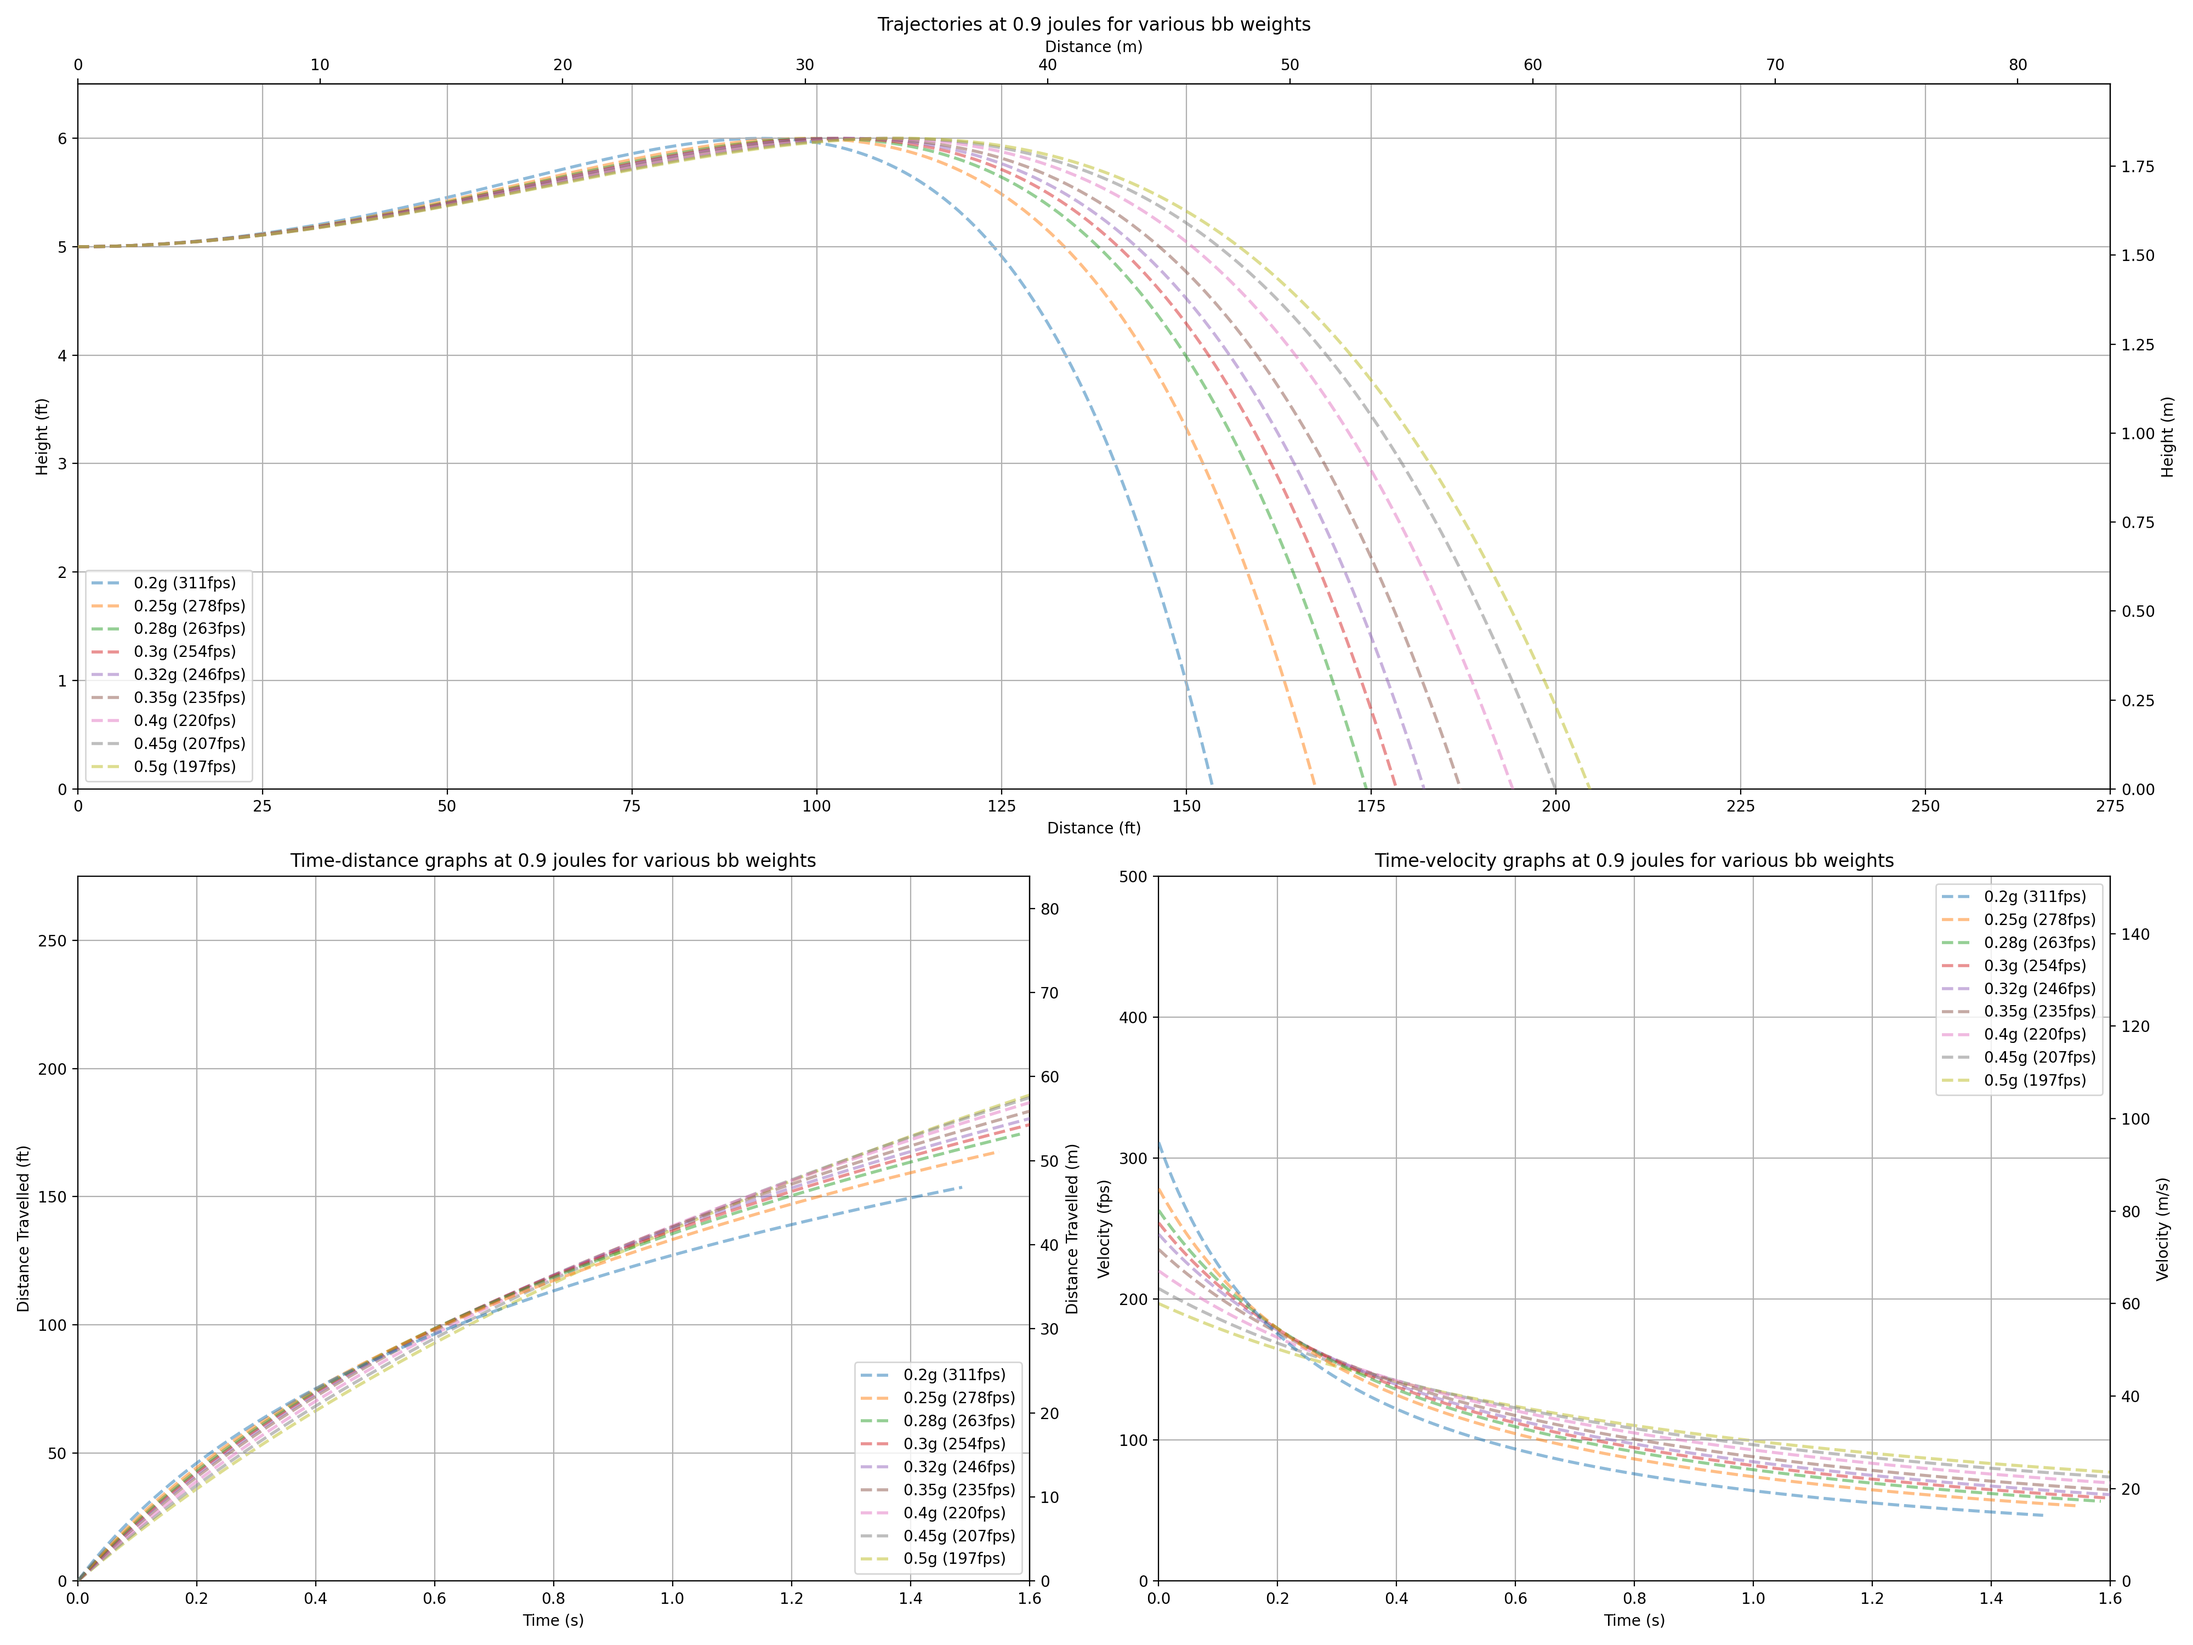
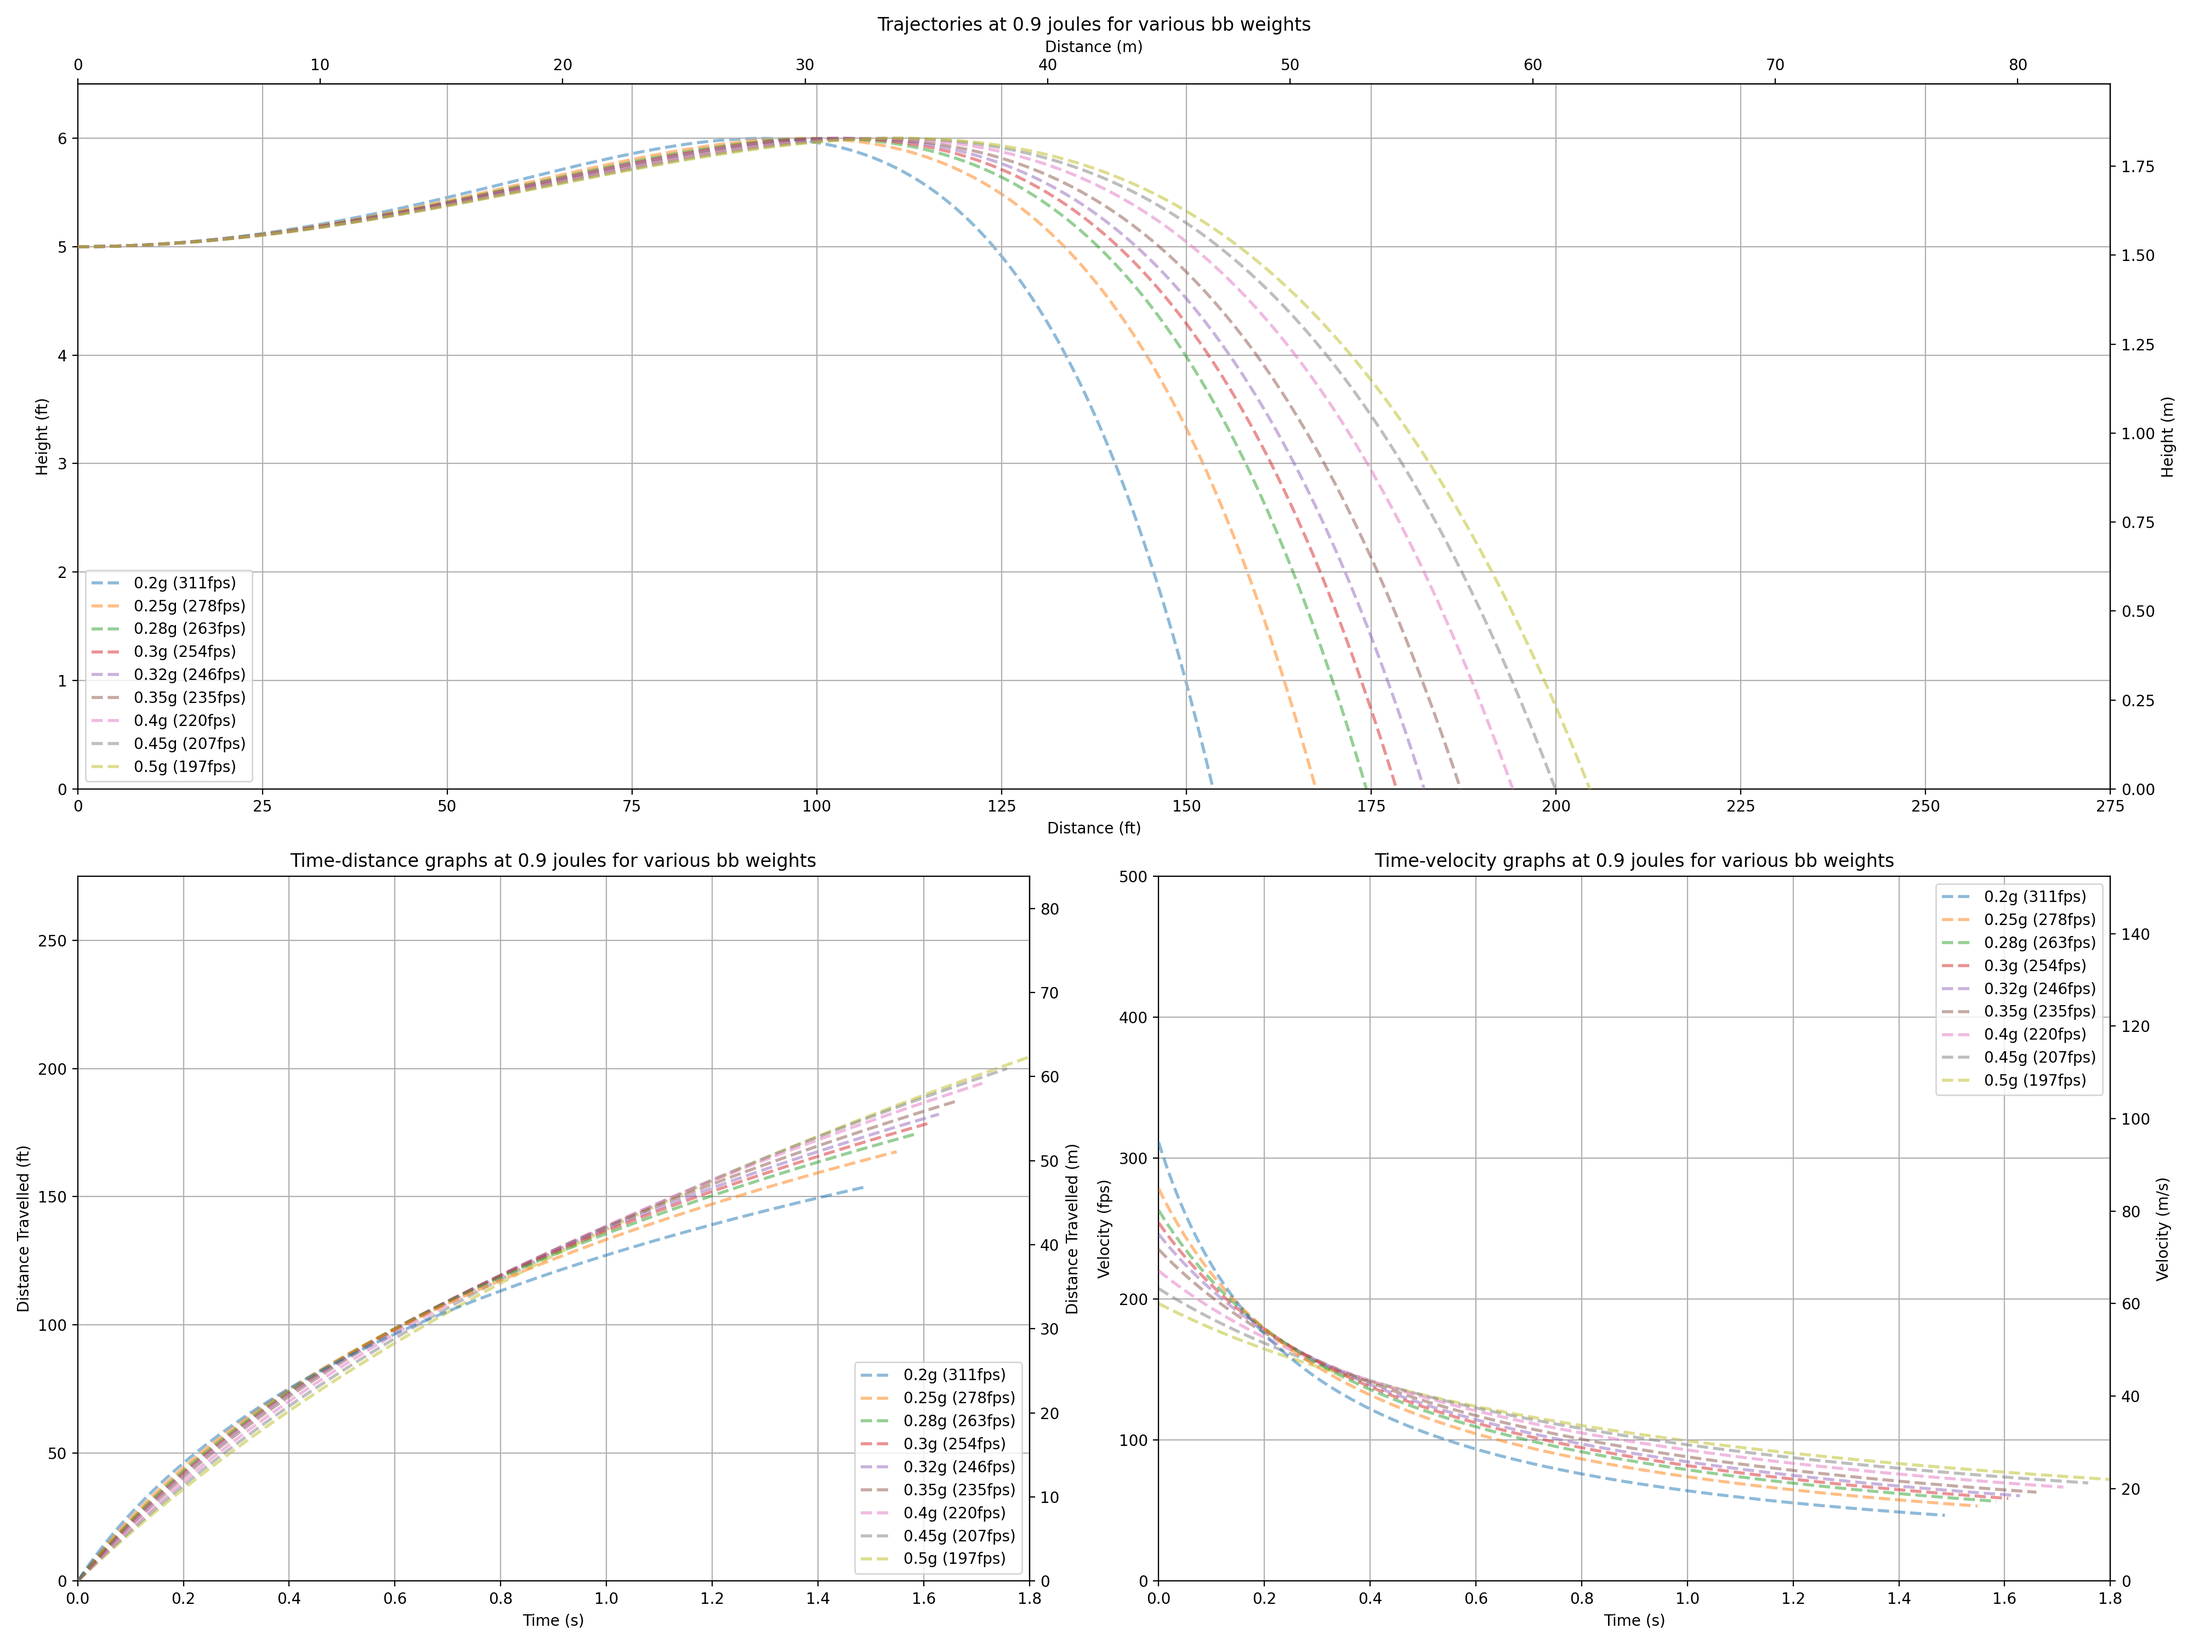
1.8s time on graphs

Changed region(s): [[0.5312, 0.744, 0.9688, 0.93], [0.0625, 0.651, 0.4688, 0.93], [0.0312, 0.93, 0.0625, 0.961]]

diff --git a/main.py b/main.py
@@ -235,7 +235,7 @@ def plot_time_distance(fig, series, title, subject):
         trajectory = ax.plot(time, distance)[0]
         configure_line(len(series)-i, trajectory, subject, result)
     if CLAMP_AXES:
-        ax.set_xlim(xmin=0, xmax=1.6)
+        ax.set_xlim(xmin=0, xmax=1.8)
         ax.set_ylim(ymin=0, ymax=275)
     secyax = ax.secondary_yaxis('right', functions=(ft2m, m2ft))
     secyax.set_ylabel("Distance Travelled (m)")
@@ -255,7 +255,7 @@ def plot_time_velocity(fig, series, title, subject):
         trajectory = ax.plot(time, velocity)[0]
         configure_line(len(series)-i, trajectory, subject, result)
     if CLAMP_AXES:
-        ax.set_xlim(xmin=0, xmax=1.6)
+        ax.set_xlim(xmin=0, xmax=1.8)
         ax.set_ylim(ymin=0, ymax=500)
     secyax = ax.secondary_yaxis('right', functions=(ft2m, m2ft))
     secyax.set_ylabel("Velocity (m/s)")
